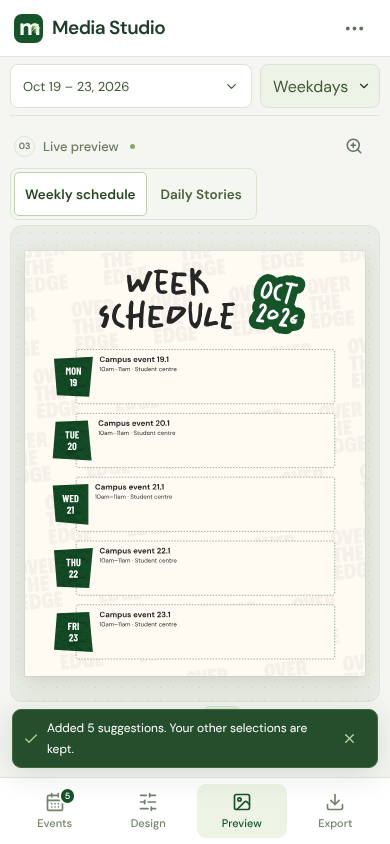
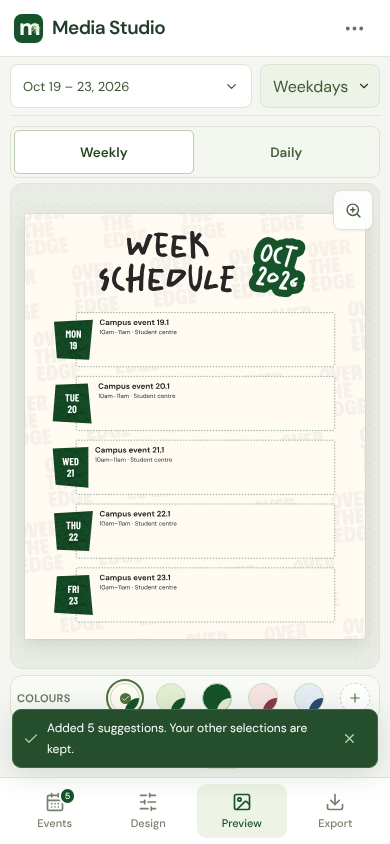
Add a white Daily Story paper option and tidy the mobile preview controls
The Daily Story paper sheet can now be Tinted (palette-matched) or White,
from Design or from the mobile preview while viewing Daily Stories. Text on
a white sheet switches to dark when the palette's text colour is light. The
choice saves with the project; older projects default to Tinted.

On phones, the redundant preview heading and size line are gone, the zoom
button sits on the preview, and the output switch and date share one row,
leaving more room for the slide.

Claude-Session: https://claude.ai/code/session_017XFCahzBHsesCUXocxhYYG

diff --git a/src/App.tsx b/src/App.tsx
@@ -14,7 +14,7 @@ import { localDateFont, importDateFont, clearDateFont } from './date-font';
 import { WorkspaceTabs, useCompactScreen } from './WorkspaceTabs';
 import type { WorkspaceTab } from './WorkspaceTabs';
 import { ExportOptions } from './ExportOptions';
-import { PreviewPalette } from './PreviewPalette';
+import { PaperSheetSwitch, PreviewPalette } from './PreviewPalette';
 import { APP_BUILD, useUpdateCheck } from './update';
 import { isTeamsEvent } from './event-filters';
 
@@ -297,20 +297,20 @@ export default function App() {
           </div>
           <div className="events-footer"><Button className="auto-button" disabled={syncing || !canSuggest} onClick={autoPick}><Sparkles size={15}/>Add suggestions</Button><button className="text-button" disabled={!selected.length} onClick={() => update({ selected: project.selected.filter(id => !selected.some(e => e.id === id)) })}>Clear</button></div>
         </section>
-        <section className="preview-panel" {...panelProps('preview','Live design preview')}><div className="preview-heading"><div><span className="step">{compact ? '03' : '02'}</span><span>Live preview</span><span className="preview-live-dot"/></div><button className="icon-button" aria-label="Enlarge preview" onClick={() => setModal('preview')} disabled={!previewUrl}><ZoomIn size={18}/></button></div>
+        <section className="preview-panel" {...panelProps('preview','Live design preview')}><div className="preview-heading"><div><span className="step">{compact ? '03' : '02'}</span><span>Live preview</span><span className="preview-live-dot"/></div></div>
           <div className="preview-output-controls">
             <div className="preview-output-switch" role="group" aria-label="Preview output">
-              <button type="button" aria-pressed={!isDaily} onClick={() => setPreviewKind('weekly')}>Weekly schedule</button>
-              <button type="button" aria-pressed={isDaily} onClick={() => setPreviewKind('daily')}>Daily Stories</button>
+              <button type="button" aria-pressed={!isDaily} aria-label="Weekly schedule" onClick={() => setPreviewKind('weekly')}>{compact ? 'Weekly' : 'Weekly schedule'}</button>
+              <button type="button" aria-pressed={isDaily} aria-label="Daily Stories" onClick={() => setPreviewKind('daily')}>{compact ? 'Daily' : 'Daily Stories'}</button>
             </div>
             {isDaily && dailyDay && <select className="daily-date-select" aria-label="Daily Story date" value={dailyDay.day} onChange={event => { setDailyDate(event.target.value); setDailyPage(0); }}>
               {daily.map(item => <option key={item.day} value={item.day}>{readableDay(item.day, { weekday:'short' })}</option>)}
             </select>}
           </div>
-          <div className="canvas-workspace"><div className={`artboard ${rendering ? 'is-rendering' : ''}`} style={{ '--artboard-ratio': dims.width/dims.height } as CSSProperties}>{previewUrl && previewPage ? <img src={previewUrl} alt={`${previewTitle} preview, slide ${currentPage+1} of ${previewPages?.length || 1}`} className="schedule-image"/> : <div className="preview-loading">{rendering && <LoaderCircle size={26} className="spinning"/>}<span>{rendering ? 'Preparing your design' : isDaily && !previewError ? 'Select events to create Daily Stories' : 'Preview unavailable'}</span></div>}</div>{previewError && <div className="preview-error" role="alert">{previewError}</div>}
+          <div className="canvas-workspace"><button className="preview-zoom" aria-label="Enlarge preview" title="Enlarge preview" onClick={() => setModal('preview')} disabled={!previewUrl}><ZoomIn size={17}/></button><div className={`artboard ${rendering ? 'is-rendering' : ''}`} style={{ '--artboard-ratio': dims.width/dims.height } as CSSProperties}>{previewUrl && previewPage ? <img src={previewUrl} alt={`${previewTitle} preview, slide ${currentPage+1} of ${previewPages?.length || 1}`} className="schedule-image"/> : <div className="preview-loading">{rendering && <LoaderCircle size={26} className="spinning"/>}<span>{rendering ? 'Preparing your design' : isDaily && !previewError ? 'Select events to create Daily Stories' : 'Preview unavailable'}</span></div>}</div>{previewError && <div className="preview-error" role="alert">{previewError}</div>}
             {!selected.length && !rendering && <div className="preview-hint"><span><ArrowLeft size={14}/></span>{compact ? <button onClick={() => setMobileTab('events')}>Choose events for your design</button> : 'Select a few events to bring this to life'}</div>}
           </div>
-          {compact && <PreviewPalette project={project} update={update}/>}
+          {compact && <PreviewPalette project={project} update={update} daily={isDaily}/>}
           {previewPages && <div className="preview-pagination" aria-label="Preview slides"><button className="icon-button" aria-label="Previous slide" disabled={currentPage===0} onClick={() => goToPreviewPage(currentPage-1)}><ChevronLeft size={17}/></button><span className="slide-position">{isDaily ? (currentPage === 0 ? 'Cover' : 'Event') + ' · ' : ''}Slide {currentPage+1} / {previewPages.length}</span>{previewPages.length <= 10 && <div className="slide-dots">{previewPages.map((p,i) => <button key={i} className={currentPage===i ? 'active' : ''} aria-current={currentPage===i ? 'true' : undefined} aria-label={`Show slide ${i+1}`} onClick={() => goToPreviewPage(i)}><span>{p.number}</span></button>)}</div>}<button className="icon-button" aria-label="Next slide" disabled={currentPage===previewPages.length-1} onClick={() => goToPreviewPage(currentPage+1)}><ChevronRight size={17}/></button></div>}
           <div className="preview-meta"><span><Monitor size={13}/>{dims.width} × {dims.height} px</span><span>{isDaily ? `${dailyDay?.events.length ?? 0} event(s) on this date` : `${previewPages?.length || 1} slide${previewPages?.length===1?'':'s'} · ${selected.length} event${selected.length===1?'':'s'}`}</span></div>
           {!!previewWarnings?.length && <div className="layout-warnings" role="alert"><AlertTriangle size={16}/><div><strong>A quick layout check</strong>{previewWarnings.map(w => <p key={w}>{w}</p>)}</div></div>}
@@ -331,7 +331,7 @@ export default function App() {
           </div>
           <div className="control-section"><div className="control-label"><span>Event details</span><Settings2 size={14}/></div><label className="toggle-row"><span>Event titles</span><input type="checkbox" checked={project.showTitle} onChange={e=>update({showTitle:e.target.checked})}/><span className="toggle"/></label><label className="toggle-row"><span>Weekly event times</span><input type="checkbox" checked={project.showTime} onChange={e=>update({showTime:e.target.checked})}/><span className="toggle"/></label><label className="toggle-row"><span>Show locations</span><input type="checkbox" checked={project.showLocation} onChange={e => update({ showLocation:e.target.checked })}/><span className="toggle"/></label><label className="toggle-row"><span>Weekly descriptions</span><input type="checkbox" checked={project.showDescription} onChange={e => update({ showDescription:e.target.checked })}/><span className="toggle"/></label><label className="toggle-row"><span>Skip empty dates</span><input type="checkbox" checked={project.hideEmptyDays} onChange={e=>update({hideEmptyDays:e.target.checked})}/><span className="toggle"/></label><div className="text-size-label"><span>Text size</span><span>{Math.round(project.textScale*100)}%</span></div><input type="range" min="0.75" max="1.4" step="0.05" value={project.textScale} aria-label="Text size" onChange={e => update({textScale:Number(e.target.value)})}/><div className="range-labels"><span>Smaller</span><span>Larger</span></div><p className="control-note">Use an event’s pencil to edit or hide individual fields.</p></div>
           {project.template==='cards' && <details className="control-section layout-controls" open><summary>Spacing & date badges</summary><label className="position-control"><span>Heading position<output>{project.headingOffset === 0 ? 'Default' : `${project.headingOffset > 0 ? '+' : ''}${project.headingOffset}%`}</output></span><input type="range" aria-label="Heading position" min="-2" max="1" step="0.1" value={project.headingOffset} onChange={e=>update({headingOffset:Number(e.target.value)})}/></label><label className="position-control"><span>Month badge position<output>{project.stampOffset === 0 ? 'Default' : `${project.stampOffset > 0 ? '+' : ''}${project.stampOffset}%`}</output></span><input type="range" aria-label="Month badge position" min="-2" max="1" step="0.1" value={project.stampOffset} onChange={e=>update({stampOffset:Number(e.target.value)})}/></label><div className="range-labels"><span>Move up</span><span>Move down</span></div><label className="position-control"><span>Day badge height<output>{Math.round(project.badgeHeight*100)}%</output></span><input type="range" aria-label="Day badge height" min="1" max="1.5" step="0.05" value={project.badgeHeight} onChange={e=>update({badgeHeight:Number(e.target.value)})}/></label><button className="text-button" onClick={()=>update({headingOffset:0,stampOffset:0,badgeHeight:1.2})}>Reset spacing</button><p className="control-note">Textured day badges and a shared edge margin across all formats. October 2026 uses your original Salted lettering.</p></details>}
-          <div className="control-section"><div className="control-label"><span>Daily Story details</span></div><label className="toggle-row"><span>Daily event times</span><input type="checkbox" checked={project.dailyShowTime} onChange={e=>update({dailyShowTime:e.target.checked})}/><span className="toggle"/></label><label className="toggle-row"><span>Daily descriptions</span><input type="checkbox" checked={project.dailyShowDescription} onChange={e=>update({dailyShowDescription:e.target.checked})}/><span className="toggle"/></label></div>
+          <div className="control-section"><div className="control-label"><span>Daily Story details</span></div><div className="paper-sheet-control"><span>Paper sheet</span><PaperSheetSwitch project={project} update={update}/></div><label className="toggle-row"><span>Daily event times</span><input type="checkbox" checked={project.dailyShowTime} onChange={e=>update({dailyShowTime:e.target.checked})}/><span className="toggle"/></label><label className="toggle-row"><span>Daily descriptions</span><input type="checkbox" checked={project.dailyShowDescription} onChange={e=>update({dailyShowDescription:e.target.checked})}/><span className="toggle"/></label></div>
           <div className="capacity-card"><div className="control-label"><span>Layout capacity</span><span>{result?.pages.length || 1} / 10 slides</span></div>{result?.capacity.map(c=><div className="capacity-row" key={c.day} title={`${Math.round(c.used)} / ${Math.round(c.available)} px on slide 1 · approximately ${c.typicalLimit} short events per slide`}><span>{dayLabel(c.day)} {Number(c.day.slice(8))}</span><div className="capacity-track"><span style={{width:`${Math.min(100,c.used/c.available*100)}%`}}/></div><span>{c.events} events · {c.slides}×</span></div>)}<p>Measured from wrapped text and visible fields. Extra events flow to another slide; oversized entries block export.</p></div>
 
         </div><div className="export-footer"><Button className="primary export-main" disabled={weeklyDisabled && (!isDaily || dailyDisabled)} onClick={() => setModal('export')}><Download size={17}/>Export your design<ArrowUpRight size={17}/></Button><button className="caption-button" disabled={!selected.length} onClick={() => void copyCaption()}><Copy size={13}/>Copy Instagram caption</button><div className="privacy-note"><Laptop size={12}/>Your work stays on your device.</div></div></section>

diff --git a/src/daily-layout.ts b/src/daily-layout.ts
@@ -32,20 +32,26 @@ const luminance = (hex: string) => rgb(hex).reduce((sum, channel, i) => {
   return sum + [.2126, .7152, .0722][i] * (c <= .03928 ? c / 12.92 : ((c + .055) / 1.055) ** 2.4);
 }, 0);
 
+export const WHITE_PAPER = '#FFFDF9';
+const darkInk = '#262626';
+
 /** The taped paper sheet must read as a separate object on every background, including custom palettes. */
-export function dailyPaperTone(paletteKey: string, palette: Palette): { fill: string; dark: boolean } {
+export function dailyPaperTone(paletteKey: string, palette: Palette, style: Project['dailyPaper'] = 'tinted'): { fill: string; dark: boolean; ink: string } {
+  // A white sheet always takes dark text, even when the palette's text colour is light.
+  if (style === 'white') return { fill: WHITE_PAPER, dark: false, ink: luminance(palette.ink) > .4 ? darkInk : palette.ink };
   // The original artwork places sage paper on the cream background.
-  if (paletteKey === 'cream') return { fill: PALETTES.sage.paper, dark: false };
+  if (paletteKey === 'cream') return { fill: PALETTES.sage.paper, dark: false, ink: palette.ink };
   const dark = luminance(palette.paper) < .22;
   // Light backgrounds take a deeper tint of their accent, like the original sage-on-cream sheet.
   // Dark backgrounds take a lighter tone toward the text colour so light text stays readable.
-  return { fill: dark ? mix(palette.paper, palette.ink, .14) : mix(palette.paper, palette.accent, .16), dark };
+  return { fill: dark ? mix(palette.paper, palette.ink, .14) : mix(palette.paper, palette.accent, .16), dark, ink: palette.ink };
 }
 
 export function renderDaily(project: Project, fonts: Fonts, events: CalendarEvent[], days: string[], lettering?: opentype.Font): DailyDay[] {
   const { width: w, height: h } = DAILY_SIZE;
   const palette = project.palette === 'custom' ? project.customPalette : PALETTES[project.palette];
-  const paperTone = dailyPaperTone(project.palette, palette);
+  const paperTone = dailyPaperTone(project.palette, palette, project.dailyPaper);
+  const sheetInk = paperTone.ink;
   const textScale = project.textScale;
   const dateLabel = (day: string) => readableDay(day, { month: 'long', year: 'numeric' }).toUpperCase();
   const coverFont = fontForText(lettering, fonts.hand, coverLines.join(' '));
@@ -72,8 +78,8 @@ export function renderDaily(project: Project, fonts: Fonts, events: CalendarEven
     if (!items.length) return [];
     const total = items.length + 1, date = dateLabel(day), warnings: string[] = [];
     const dateFont = fontForText(lettering, fonts.bold, date);
-    const dateMark = (x: number, y: number, size: number, maxWidth: number, center = false) =>
-      `<g data-layer="date" aria-label="${escape(date)}">${textPath(dateFont, date, x, y, size, palette.ink, maxWidth, center)}</g>`;
+    const dateMark = (x: number, y: number, size: number, maxWidth: number, center = false, ink = palette.ink) =>
+      `<g data-layer="date" aria-label="${escape(date)}">${textPath(dateFont, date, x, y, size, ink, maxWidth, center)}</g>`;
     const cover = `<path data-layer="border" d="${coverBorder}" fill="none" stroke="${palette.accent}" stroke-width="13" stroke-linecap="round" stroke-linejoin="round"/>`
       + dateMark(w / 2, 630, 37, 750, true)
       + `<g data-layer="heading">${coverHeading}</g>`
@@ -122,7 +128,7 @@ export function renderDaily(project: Project, fonts: Fonts, events: CalendarEven
           + `</g>${titleTape}</g>`;
       }
       let y = Math.max(650, titleLines.length ? titleBottom + 68 : 0);
-      content += dateMark(bodyX, y, 34, bodyWidth);
+      content += dateMark(bodyX, y, 34, bodyWidth, false, sheetInk);
       const detailSize = 35 * textScale, detailLeading = detailSize * 1.22;
       const detailLines = wrap(fonts.sans, details, detailSize, bodyWidth);
       let bodySize = Math.round(39 * textScale), bodyLines = wrap(fonts.sans, description, bodySize, bodyWidth);
@@ -135,15 +141,15 @@ export function renderDaily(project: Project, fonts: Fonts, events: CalendarEven
       content += `<defs><clipPath id="daily-content"><rect x="${bodyX - 5}" y="${y + 6}" width="${bodyWidth + 10}" height="${bodyBottom - y}"/></clipPath></defs><g clip-path="url(#daily-content)">`;
       for (const line of detailLines.slice(0, Math.floor((bodyBottom - y) / detailLeading))) {
         y += detailLeading;
-        content += textPath(fonts.sans, line, bodyX, y, detailSize, palette.ink, bodyWidth);
+        content += textPath(fonts.sans, line, bodyX, y, detailSize, sheetInk, bodyWidth);
       }
       if (bodyLines.length) {
-        content += `<path d="M${bodyX} ${y + 27}h${bodyWidth}" stroke="${palette.ink}" stroke-width="2" stroke-dasharray="8 8"/>`;
+        content += `<path d="M${bodyX} ${y + 27}h${bodyWidth}" stroke="${sheetInk}" stroke-width="2" stroke-dasharray="8 8"/>`;
         bodyLines.slice(0, Math.max(0, Math.floor((bodyBottom - bodyTop) / (bodySize * 1.28)))).forEach((line, i) => {
-          content += textPath(fonts.sans, line, bodyX, bodyTop + i * bodySize * 1.28, bodySize, palette.ink, bodyWidth);
+          content += textPath(fonts.sans, line, bodyX, bodyTop + i * bodySize * 1.28, bodySize, sheetInk, bodyWidth);
         });
       }
-      content += `</g><path d="M${bodyX} 1530h${bodyWidth}" stroke="${palette.ink}" stroke-width="2" stroke-dasharray="8 8"/>`;
+      content += `</g><path d="M${bodyX} 1530h${bodyWidth}" stroke="${sheetInk}" stroke-width="2" stroke-dasharray="8 8"/>`;
       pages.push({ ...DAILY_SIZE, svg: svg(`${title || 'Daily event'} · ${date}`, `<g data-event-id="${escape(event.id)}">${content}</g>`), number: index + 2, total, eventCount: 1 });
     });
     return [{ day, events: items, pages, warnings: [...new Set(warnings)] }];

diff --git a/src/storage.ts b/src/storage.ts
@@ -4,20 +4,20 @@ import { dateKey, monday, validDay, TIMEZONE } from './dates';
 import { safeUrl } from './api';
 export const STORAGE_KEY = 'ote-media-studio-v1';
 export function newProject(): Project {
-  return { version: 1, week: monday(dateKey(new Date())), layout: 'weekly', template: 'cards', format: 'portrait', palette: 'cream', customPalette: { ...PALETTES.cream, name: 'Custom' }, source: { ...DEFAULT_SOURCE }, events: [], manualEvents: [], selected: [], edits: {}, fetchedAt: null, fetchedRange: '', showLocation: true, showDescription: false, textScale: 1, timezone: TIMEZONE, skippedDays: [], hideEmptyDays: false, showTime: true, showTitle: true, dailyShowTime: true, dailyShowDescription: true, headingOffset: 0, stampOffset: 0, badgeHeight: 1.2, hideTeams: true };
+  return { version: 1, week: monday(dateKey(new Date())), layout: 'weekly', template: 'cards', format: 'portrait', palette: 'cream', customPalette: { ...PALETTES.cream, name: 'Custom' }, source: { ...DEFAULT_SOURCE }, events: [], manualEvents: [], selected: [], edits: {}, fetchedAt: null, fetchedRange: '', showLocation: true, showDescription: false, textScale: 1, timezone: TIMEZONE, skippedDays: [], hideEmptyDays: false, showTime: true, showTitle: true, dailyShowTime: true, dailyShowDescription: true, headingOffset: 0, stampOffset: 0, badgeHeight: 1.2, hideTeams: true, dailyPaper: 'tinted' };
 }
 function validEvents(data: unknown): data is CalendarEvent[] {
   return Array.isArray(data) && data.length <= 10000 && data.every(e => e && ['id','sourceId','title','description','start','end','location','category','url','status','cost'].every(k => typeof e[k] === 'string') && typeof e.allDay === 'boolean' && (e.origin === undefined || typeof e.origin === 'string') && (e.labels === undefined || Array.isArray(e.labels) && e.labels.every((label: unknown) => typeof label === 'string')) && Number.isFinite(Date.parse(e.start)) && Number.isFinite(Date.parse(e.end)) && Date.parse(e.end) >= Date.parse(e.start));
 }
 export function parseProject(data: unknown): Project {
   const p = data as Project;
-  if (p && p.version === 1) { p.skippedDays ??= []; p.hideEmptyDays ??= false; p.showTime ??= true; p.showTitle ??= true; p.dailyShowTime ??= true; p.dailyShowDescription ??= true; p.headingOffset ??= 0; p.stampOffset ??= 0; p.badgeHeight ??= 1.2; p.template ??= 'cards'; p.hideTeams ??= true; }
+  if (p && p.version === 1) { p.skippedDays ??= []; p.hideEmptyDays ??= false; p.showTime ??= true; p.showTitle ??= true; p.dailyShowTime ??= true; p.dailyShowDescription ??= true; p.headingOffset ??= 0; p.stampOffset ??= 0; p.badgeHeight ??= 1.2; p.template ??= 'cards'; p.hideTeams ??= true; p.dailyPaper ??= 'tinted'; }
   if (!p || p.version !== 1 || !validDay(p.week) || !['weekly','weekend','full-week'].includes(p.layout) || !['cards','list'].includes(p.template) || p.layout === 'full-week' && p.template !== 'list' || !['portrait','story','original'].includes(p.format)
     || typeof p.palette !== 'string' || ![...Object.keys(PALETTES),'custom'].includes(p.palette) || !p.customPalette || !['paper','ink','accent','badgeInk'].every(k => /^#[0-9a-f]{6}$/i.test(p.customPalette[k as keyof typeof p.customPalette]))
     || !p.source || !['unbc','tribe','json'].includes(p.source.provider) || !safeUrl(p.source.url) || typeof p.source.name !== 'string' || typeof p.source.id !== 'string'
     || !validEvents(p.events) || !validEvents(p.manualEvents) || !Array.isArray(p.selected) || !p.selected.every(x => typeof x === 'string')
     || typeof p.showLocation !== 'boolean' || typeof p.showDescription !== 'boolean' || typeof p.textScale !== 'number' || p.textScale < 0.75 || p.textScale > 1.4
-    || typeof p.dailyShowTime !== 'boolean' || typeof p.dailyShowDescription !== 'boolean'
+    || !['tinted','white'].includes(p.dailyPaper) || typeof p.dailyShowTime !== 'boolean' || typeof p.dailyShowDescription !== 'boolean'
     || !Array.isArray(p.skippedDays) || !p.skippedDays.every(validDay) || typeof p.hideEmptyDays !== 'boolean' || typeof p.showTime !== 'boolean' || typeof p.showTitle !== 'boolean' || typeof p.hideTeams !== 'boolean'
     || ![p.headingOffset,p.stampOffset].every(n => Number.isFinite(n) && n >= -2 && n <= 1) || !Number.isFinite(p.badgeHeight) || p.badgeHeight < 1 || p.badgeHeight > 1.5
     || typeof p.timezone !== 'string' || typeof p.fetchedRange !== 'string' || !(p.fetchedAt === null || typeof p.fetchedAt === 'string' && Number.isFinite(Date.parse(p.fetchedAt)))

diff --git a/src/mobile.css b/src/mobile.css
@@ -360,3 +360,32 @@
 .preview-custom-colors input { width: 30px; height: 22px; flex-shrink: 0; padding: 0; border: 0; background: none; }
 .preview-custom-colors span { max-width: 100%; font-size: 10px; line-height: 1.2; overflow: hidden; text-overflow: ellipsis; white-space: nowrap; }
 @media (max-width: 359px) { .preview-palette-label { display: none; } }
+
+/* Daily paper sheet choice, shared by the Design panel and the mobile preview. */
+.paper-sheet-switch { display: inline-flex; gap: 3px; padding: 3px; border: 1px solid #dce5d4; border-radius: 8px; background: #f4f7ef; }
+.paper-sheet-switch > button { min-height: 28px; padding: 0 10px; display: inline-flex; align-items: center; gap: 6px; border: 1px solid transparent; border-radius: 5px; color: #49613e; font-size: 12.5px; font-weight: 600; }
+.paper-sheet-switch > button[aria-pressed=true] { border-color: #bfceb2; background: #fff; color: #25471e; }
+.paper-sheet-sample { width: 12px; height: 14px; border-radius: 2px; border: 1px solid #b9c6ad; transform: rotate(-4deg); }
+.paper-sheet-sample.tinted { background: linear-gradient(135deg, #e3efcf, #c8dbb0); }
+.paper-sheet-sample.white { background: #fffdf9; }
+.paper-sheet-control { display: flex; align-items: center; justify-content: space-between; gap: 8px; min-height: 40px; font-size: 13px; color: #4f5f48; }
+
+/* Zoom sits on the preview itself instead of taking a heading row. */
+.preview-zoom { position: absolute; top: 8px; right: 8px; z-index: 2; width: 32px; height: 32px; display: grid; place-items: center; border-radius: 8px; border: 1px solid #dce5d4; background: #ffffffe6; color: #49613e; box-shadow: 0 1px 3px #3d4d3214; }
+.preview-zoom:disabled { opacity: .4; }
+.preview-zoom:focus-visible { outline: 2px solid #155329; outline-offset: 2px; }
+
+@media (max-width: 760px), (max-width: 1000px) and (max-height: 500px) {
+  /* The Preview tab already names this panel; output and date choices share one row. */
+  .preview-heading { display: none; }
+  .preview-output-controls { flex-wrap: nowrap; margin-top: 2px; }
+  .preview-output-switch { flex: 1 1 auto; min-width: 0; }
+  .preview-output-switch > button { flex: 1 1 0; padding: 0 8px; }
+  .daily-date-select { flex: 0 1 auto; min-width: 0; }
+  .preview-meta { display: none; }
+  .preview-zoom { width: 40px; height: 40px; top: 6px; right: 6px; }
+  .preview-paper-row { display: flex; align-items: center; gap: 8px; min-height: 44px; padding: 0 2px 0 6px; border: 1px solid #dce5d4; border-radius: 12px; background: #f8faf5; }
+  .preview-paper-row .paper-sheet-switch { padding: 0; border: 0; background: none; }
+  .preview-paper-row .paper-sheet-switch > button { min-height: 44px; padding: 0 12px; font-size: 13px; }
+  .preview-paper-row .paper-sheet-switch > button[aria-pressed=true] { background: #fff; }
+}

diff --git a/src/PreviewPalette.tsx b/src/PreviewPalette.tsx
@@ -4,8 +4,19 @@ import { PALETTES } from './types';
 
 const customLabels: Record<keyof Palette, string> = { name: '', paper: 'Background', ink: 'Text', accent: 'Accent', badgeInk: 'Labels' };
 
+type Update = (patch: Partial<Project>) => void;
+
+/** Daily Story paper sheet: palette-matched tint or plain white. */
+export function PaperSheetSwitch({ project, update }: { project: Project; update: Update }) {
+  return <div className="paper-sheet-switch" role="group" aria-label="Daily paper sheet">
+    {(['tinted', 'white'] as const).map(style => <button key={style} type="button" aria-pressed={project.dailyPaper === style} aria-label={`${style === 'white' ? 'White' : 'Tinted'} paper`} onClick={() => update({ dailyPaper: style })}>
+      <span className={`paper-sheet-sample ${style}`}/>{style === 'white' ? 'White' : 'Tinted'}
+    </button>)}
+  </div>;
+}
+
 /** A compact palette strip shown under the mobile preview, so colour changes are visible as they are made. */
-export function PreviewPalette({ project, update }: { project: Project; update: (patch: Partial<Project>) => void }) {
+export function PreviewPalette({ project, update, daily }: { project: Project; update: Update; daily: boolean }) {
   return <div className="preview-palette" role="group" aria-label="Preview colours">
     <div className="preview-palette-row">
       <span className="preview-palette-label">Colours</span>
@@ -16,6 +27,7 @@ export function PreviewPalette({ project, update }: { project: Project; update: 
         <span style={project.palette === 'custom' ? { background: project.customPalette.paper } : undefined}>{project.palette === 'custom' ? <><span style={{ background: project.customPalette.accent }}/><Check className="preview-swatch-check" size={11}/></> : <Plus size={14}/>}</span>
       </button>
     </div>
+    {daily && <div className="preview-paper-row"><span className="preview-palette-label">Paper</span><PaperSheetSwitch project={project} update={update}/></div>}
     {project.palette === 'custom' && <div className="preview-custom-colors">
       {(['paper', 'ink', 'accent', 'badgeInk'] as const).map(key => <label key={key}>
         <input type="color" value={project.customPalette[key]} aria-label={`Custom ${key} color`} onChange={e => update({ customPalette: { ...project.customPalette, [key]: e.target.value } })}/>

diff --git a/tests/e2e/mobile.spec.ts b/tests/e2e/mobile.spec.ts
@@ -256,12 +256,22 @@ test('palette swatches under the mobile preview recolour the Daily Story live', 
   await expect(colours.getByRole('button', { name: 'Forest palette', exact: true })).toHaveAttribute('aria-pressed', 'true');
   await expect(page.locator('.schedule-image')).not.toHaveAttribute('src', before!);
   await expect(page.getByText('Event · Slide 2 / 2')).toBeVisible();
+  const tinted = await page.locator('.schedule-image').getAttribute('src');
+  await colours.getByRole('button', { name: 'White paper', exact: true }).tap(); await ready(page);
+  await expect(colours.getByRole('button', { name: 'White paper', exact: true })).toHaveAttribute('aria-pressed', 'true');
+  await expect(page.locator('.schedule-image')).not.toHaveAttribute('src', tinted!);
+  // Output, date, and zoom share the preview space instead of separate heading rows.
+  const output = (await page.getByRole('button', { name: 'Daily Stories', exact: true }).boundingBox())!;
+  const date = (await page.getByLabel('Daily Story date').boundingBox())!;
+  expect(Math.abs(output.y - date.y)).toBeLessThan(6);
+  await expect(page.getByRole('button', { name: 'Enlarge preview', exact: true })).toBeVisible();
   await colours.getByRole('button', { name: 'Custom palette', exact: true }).tap();
   await expect(colours.getByLabel('Custom paper color')).toBeVisible();
   for (const swatch of await colours.getByRole('button').all()) expect((await swatch.boundingBox())!.height).toBeGreaterThanOrEqual(44);
   expect(await page.evaluate(() => document.documentElement.scrollWidth <= innerWidth)).toBe(true);
   await tab(page, 'Design').tap();
   await expect(page.getByRole('button', { name: 'Custom palette', exact: true })).toHaveAttribute('class', /active/);
+  await expect(page.getByRole('group', { name: 'Daily paper sheet' }).getByRole('button', { name: 'White paper', exact: true })).toHaveAttribute('aria-pressed', 'true');
   await tab(page, 'Preview').tap(); await colours.getByRole('button', { name: 'Sage palette', exact: true }).tap(); await ready(page);
   await page.screenshot({ path: 'docs/mobile-preview-colours.png' });
 });

diff --git a/tests/render.test.ts b/tests/render.test.ts
@@ -2,7 +2,7 @@ import { describe,it,expect,vi,beforeAll,afterAll } from 'vitest';
 import { readFile } from 'node:fs/promises';
 import { basename,join } from 'node:path';
 import { caption, renderDailyProject, renderProject, visibleDays } from '../src/render';
-import { newProject } from '../src/storage';
+import { newProject, parseProject } from '../src/storage';
 import { dailyPaperTone } from '../src/daily-layout';
 import { PALETTES } from '../src/types';
 import type { CalendarEvent } from '../src/types';
@@ -110,6 +110,20 @@ describe('daily Story layout', () => {
       expect(svg).toContain('data-layer="paper-shadow"');
       expect(svg).toContain('filter="url(#daily-texture)"');
       expect(svg.includes('daily-texture-light'), key).toBe(dailyPaperTone(key, key === 'custom' ? custom : PALETTES[key]).dark);
+      const white = (await renderDailyProject({ ...project, dailyPaper: 'white' }))[0].pages[1].svg;
+      expect(white).toMatch(/data-layer="paper"[^>]*><rect[^>]*fill="#FFFDF9"/);
+      expect(white).not.toContain('daily-texture-light');
     }
+    // Light palette text switches to dark ink on a white sheet.
+    expect(dailyPaperTone('forest', PALETTES.forest, 'white').ink).toBe('#262626');
+    expect(dailyPaperTone('rose', PALETTES.rose, 'white').ink).toBe(PALETTES.rose.ink);
+  });
+
+  it('keeps the paper sheet choice in saved projects and defaults older ones to tinted', () => {
+    const saved = JSON.parse(JSON.stringify({ ...newProject(), dailyPaper: 'white' }));
+    expect(parseProject(saved).dailyPaper).toBe('white');
+    const { dailyPaper: _, ...older } = saved;
+    expect(parseProject(older).dailyPaper).toBe('tinted');
+    expect(() => parseProject({ ...saved, dailyPaper: 'gold' })).toThrow();
   });
 });

diff --git a/src/types.ts b/src/types.ts
@@ -19,6 +19,8 @@ export interface Project {
   dailyShowTime: boolean; dailyShowDescription: boolean;
   headingOffset: number; stampOffset: number; badgeHeight: number;
   hideTeams: boolean;
+  /** Daily Story paper sheet: a palette-matched tint, or plain white. */
+  dailyPaper: 'tinted' | 'white';
 }
 export const DEFAULT_SOURCE: Source = { id: 'ote', name: 'Over the Edge', url: 'https://overtheedge.unbc.ca/wp-json/unbc-events/v1/events/', provider: 'unbc' };
 export const PALETTES: Record<string, Palette> = {

diff --git a/README.md b/README.md
@@ -48,7 +48,7 @@ Open the URL printed by Vite (normally http://127.0.0.1:4173/). The browser cach
 6. Review the live preview and **Layout capacity**. Switch between **Weekly schedule** and **Daily Stories** to see both outputs. Extra events in the weekly schedule flow onto additional slides. Export PNG, JPG, or self-contained SVG. **Download everything as ZIP** puts both outputs and their captions with source links in a ZIP. On iPhone, iPad, Android, and macOS Safari, **Save all images to Photos** and **Save current slide to Photos** open the system share sheet; choose **Save Images** to add the slides straight to the Photos app (or share directly to Instagram). SVG choices are saved as PNG because Photos only accepts raster images. If Safari blocks the share sheet after rendering many slides, the button changes to **Open share sheet** and one more tap opens it.
 7. Work saves locally. Download a project JSON backup to keep a portable copy or continue on another device.
 
-On mobile, four persistent bottom tabs keep the workflow within reach: **Events → Design → Preview → Export**. A single toolbar row contains the week picker and a **Weekdays / Weekend / Full week** dropdown (Full week is available in Weekly list). The week picker opens previous/next, This week, and a date input; any chosen date resolves to its Monday. Source, label, and Teams filters expand from **Filters**, with an active-filter count; the Teams explanation stays inside that drawer. Date chips and the selected-events toggle share one row. The events heading and connection status share a compact header, and each date uses one toolbar for inclusion, bulk selection, and suggestions. Cards put the title first, time and category on one line, and the venue on one line; long titles wrap, and the pencil opens the full venue and details. Selection and edit targets stay large enough for touch. Date chips scroll horizontally when seven days need more room. Each panel keeps its scroll position and selections when switching tabs. The preview fits its actual export ratio, and a **Colours** strip under it switches palettes (including Custom colours) so changes show on the slide immediately, without leaving Preview. The Export tab downloads images or ZIPs directly. **⋯** opens project backup, restore, and help.
+On mobile, four persistent bottom tabs keep the workflow within reach: **Events → Design → Preview → Export**. A single toolbar row contains the week picker and a **Weekdays / Weekend / Full week** dropdown (Full week is available in Weekly list). The week picker opens previous/next, This week, and a date input; any chosen date resolves to its Monday. Source, label, and Teams filters expand from **Filters**, with an active-filter count; the Teams explanation stays inside that drawer. Date chips and the selected-events toggle share one row. The events heading and connection status share a compact header, and each date uses one toolbar for inclusion, bulk selection, and suggestions. Cards put the title first, time and category on one line, and the venue on one line; long titles wrap, and the pencil opens the full venue and details. Selection and edit targets stay large enough for touch. Date chips scroll horizontally when seven days need more room. Each panel keeps its scroll position and selections when switching tabs. The preview fits its actual export ratio, and a **Colours** strip under it switches palettes (including Custom colours) so changes show on the slide immediately, without leaving Preview. While viewing Daily Stories, a **Paper** row beside it switches the sheet between Tinted and White. The output switch and date share one row, and the zoom button sits on the preview. The Export tab downloads images or ZIPs directly. **⋯** opens project backup, restore, and help.
 
 Phone controls use larger touch targets and 16px form inputs. Safe-area padding supports notches and home indicators. The layout follows the visual viewport when the keyboard opens; event editors keep a sticky save action. Short phones and landscape use a scrollable panel while retaining the bottom tabs. Desktop keeps its three-column workspace.
 
@@ -82,7 +82,7 @@ Rows share a measured height budget based on their content. Short events can fit
 
 ## Daily Stories
 
-Each included date with selected events gets a dated cover and one slide per event in local start-time order. Daily Stories use the illustrated border, paper notes, and repeating Over the Edge wordmark from the daily design reference. They are always 1080×1920, regardless of the weekly schedule’s format. The taped paper sheet always takes its own tone so it stands out from the background: the Paper palette keeps the original sage sheet, light palettes use a deeper tint of their accent, and dark palettes (including dark custom colours) use a lighter sheet with highlighted creases so the texture stays visible.
+Each included date with selected events gets a dated cover and one slide per event in local start-time order. Daily Stories use the illustrated border, paper notes, and repeating Over the Edge wordmark from the daily design reference. They are always 1080×1920, regardless of the weekly schedule’s format. The taped paper sheet always takes its own tone so it stands out from the background: the Paper palette keeps the original sage sheet, light palettes use a deeper tint of their accent, and dark palettes (including dark custom colours) use a lighter sheet with highlighted creases so the texture stays visible. Choose **Design → Daily Story details → Paper sheet → White** for a plain white sheet instead; on palettes with light text, such as Forest, the text on a white sheet switches to dark automatically. The choice saves with the project.
 
 Choose a date in the **Daily Stories** preview and use the arrows to see its cover and event slides. Daily times and descriptions are on by default and can be adjusted separately in **Design → Daily Story details**. Event edits carry across both outputs. If an event’s details don’t fit, shorten the text, hide a field, or reduce the text size.
 
